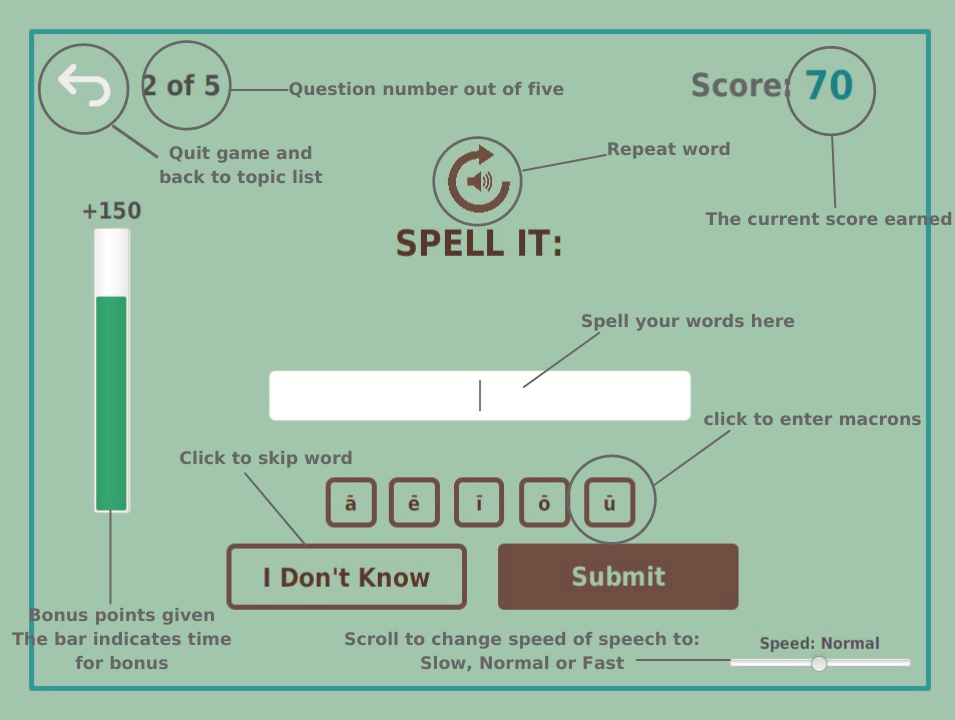
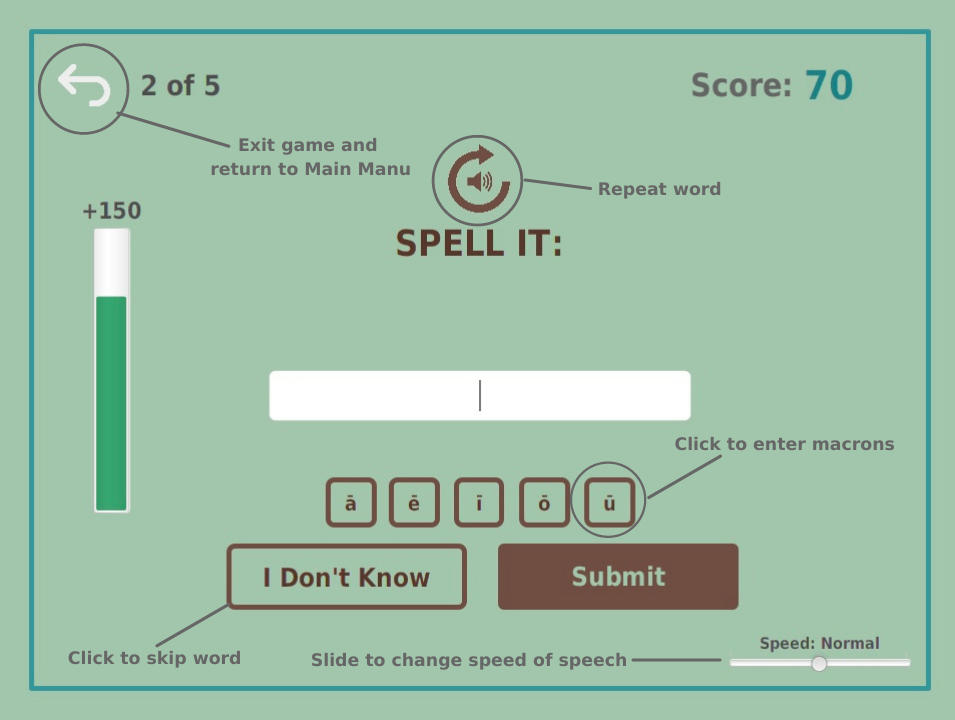
Final fixes in help screens - edit some help images

diff --git a/src/controller/TopicsView.java b/src/controller/TopicsView.java
@@ -184,7 +184,7 @@ public class TopicsView extends Controller {
 	}
 	
 	public void openHelpWindow(ActionEvent event) {
-		String sceneName = "TopicsList";
+		String sceneName = "TopicList";
 		if (isPractice) {
 			sceneName = "PracticeTopic";
 		}
